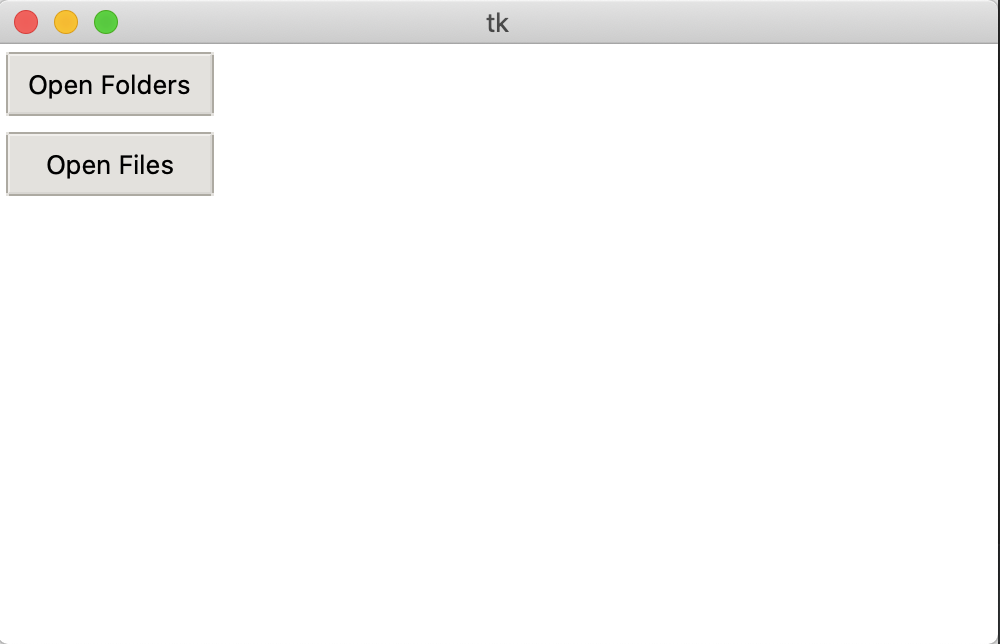
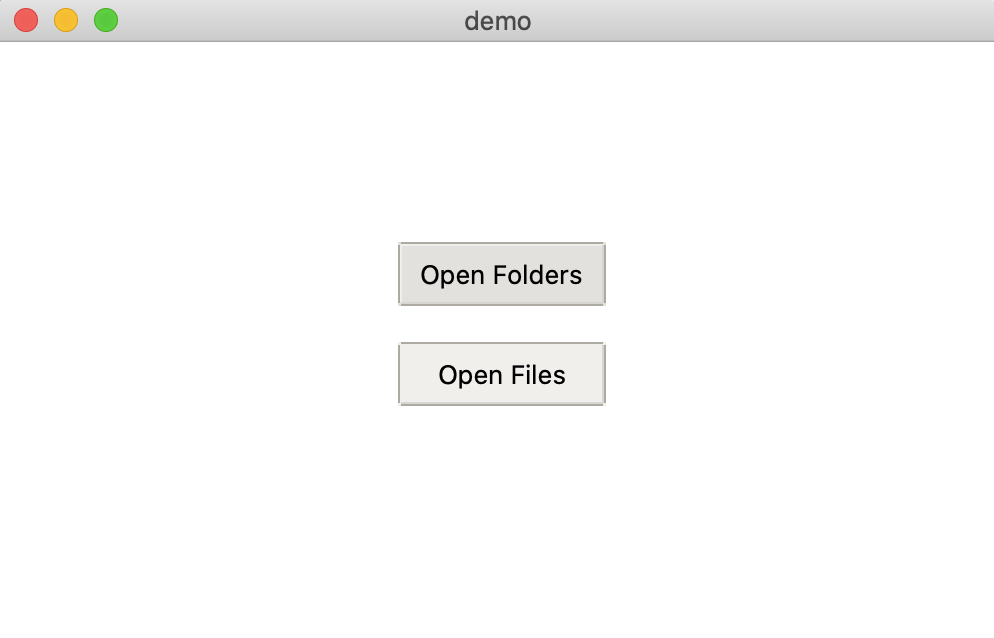
python tkinter

Changed region(s): [[0.0, 0.0, 1.0, 1.0], [0.3742, 0.3574, 0.6237, 0.5063], [0.4054, 0.5361, 0.6237, 0.6552]]

diff --git a/examples/filemanager_1/filemanager.py b/examples/filemanager_1/filemanager.py
@@ -8,7 +8,7 @@ except ImportError:
     import ttk
     import tkFileDialog as filedialog
 
-
+TITLE="demo"
 
 FILE_TYPES=[('PDF files', '.pdf'),
             ('JPG files', '.jpg'),
@@ -21,6 +21,7 @@ root = None
 def init():
     global root
     root = tk.Tk()
+    root.winfo_toplevel().title(TITLE)
     root.geometry('500x300')
     width = root.winfo_reqwidth()
     height = root.winfo_reqheight()
@@ -42,6 +43,10 @@ def open_file():
     global root
     rep = filedialog.askopenfilenames(parent=root, initialdir=os.getcwd(), filetypes=FILE_TYPES)
     print(rep[0])
+    #try:
+    #    os.startfile(rep[0])
+    #except IndexError:
+    #    print("No file selected")
 
 def start():
     global root
@@ -50,9 +55,9 @@ def start():
 init()
 
 b1 = ttk.Button(root, text="Open Folders", command=open_folder)
-b1.grid(row=1, column=0, padx=4, pady=4, sticky='ew')
+b1.place(x=200,y=100)
 
 b2 = ttk.Button(root, text="Open Files", command=open_file)
-b2.grid(row=2, column=0, padx=4, pady=4, sticky='ew')
+b2.place(x=200,y=150)
 
 start()

diff --git a/README.md b/README.md
@@ -3,3 +3,5 @@
 ## File Manager 1
 
 ![](examples/filemanager_1/demo.png)
+
+## File Manager 1
